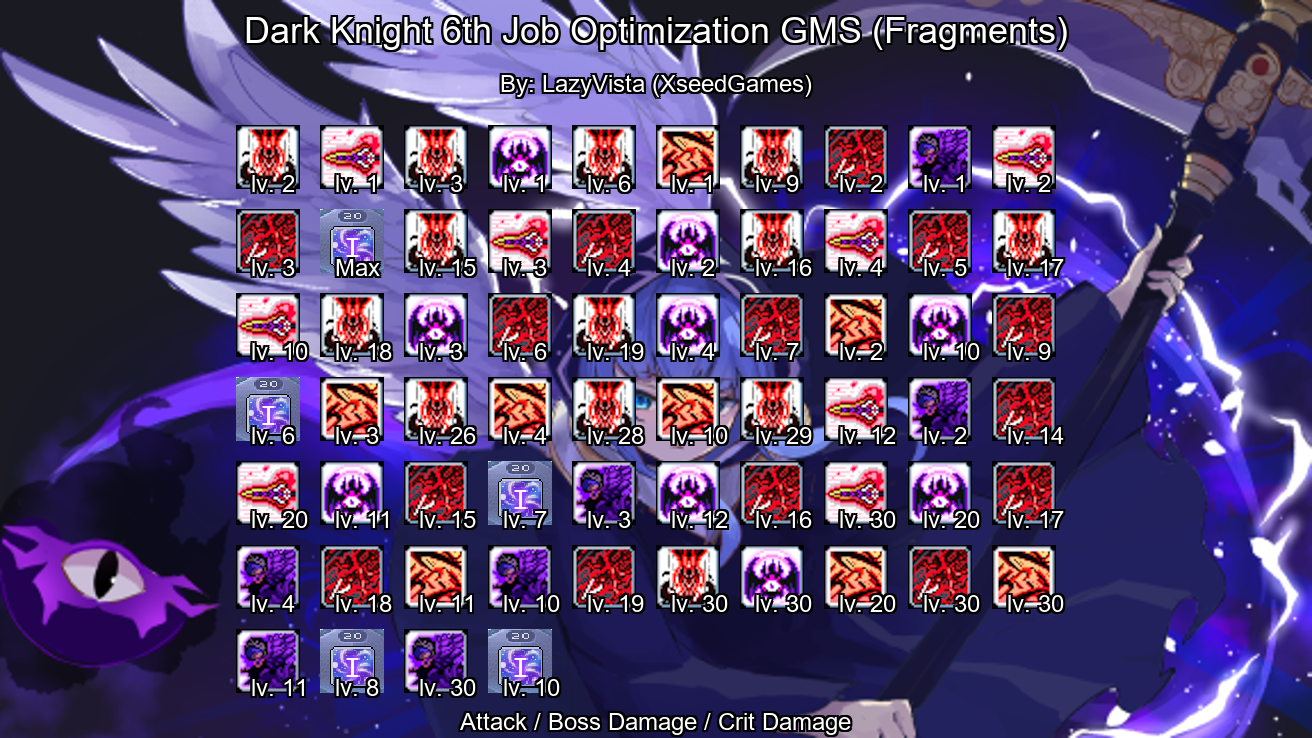
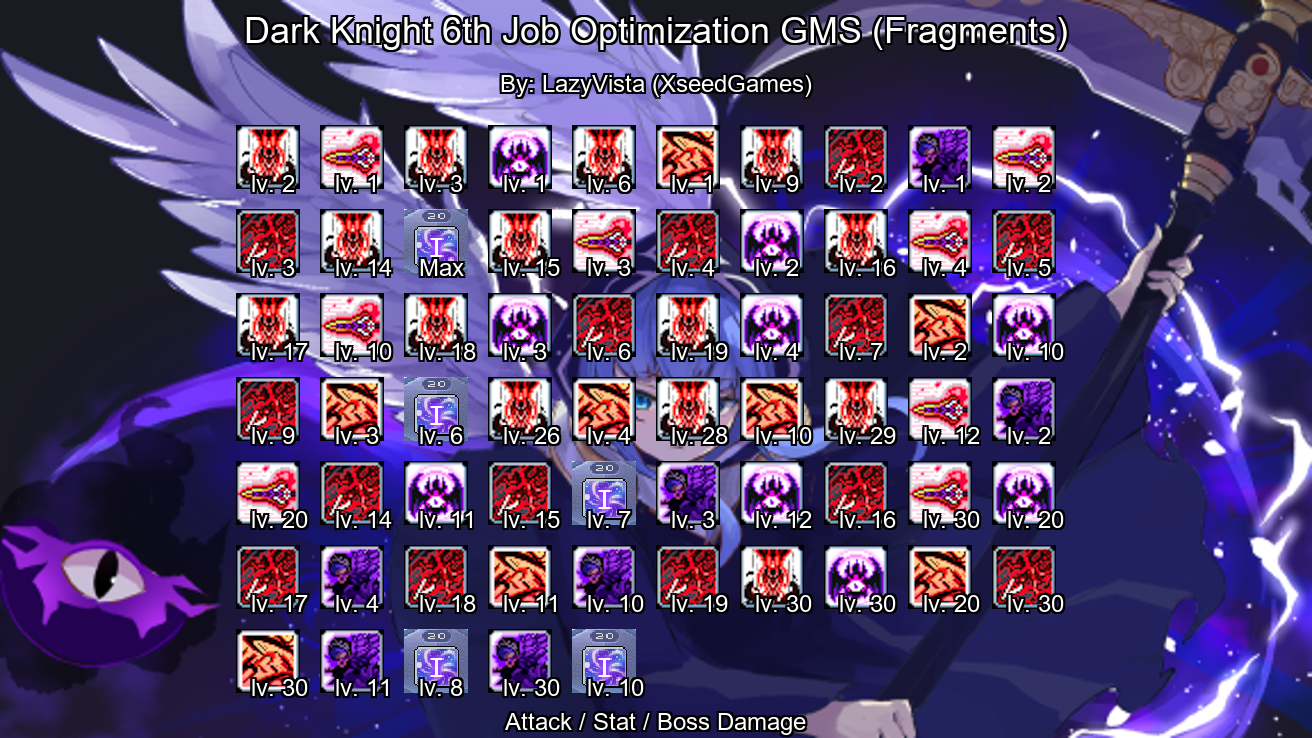
More commenting

Changed region(s): [[0.1562, 0.2805, 0.8125, 1.0]]

diff --git a/Auto_Infographic_Optimize/Hexa_Skill_Optimize.py b/Auto_Infographic_Optimize/Hexa_Skill_Optimize.py
@@ -4,21 +4,22 @@ import numpy
 ## VERY IMPORTANT TO FILL BOXES (DAMAGE, IED, BOSS_DEF, A_1 ..... C_1_Current)
 ## VERY IMPORTANT TO FILL BOXES (DAMAGE, IED, BOSS_DEF, A_1 ..... C_1_Current)
 ## VERY IMPORTANT TO FILL BOXES (DAMAGE, IED, BOSS_DEF, A_1 ..... C_1_Current)
-# Damage is Boss% + Damage%,
-# IED is what you see on character sheet
-# if you dont know what Boss_Def is this calc is way too advanced for you
 # Use decimal values 98% = 0.98, 612% = 6.12, etc etc
 # Fragment based optimization FragBase = True
 # Energy based optimization FragBase = False
 FragBase    = True
 Hexa_Stat_Include = True
-Damage      = 6.00
-IED         = 0.96
+Damage      = 7.00
+IED         = 0.97
 Hidden_IED  = 0.4
 Boss_Def    = 3.80
 
+# Damage is Boss% + Damage%,
+# IED is what you see on character sheet
+# Hidden IED is IED that doesnt show up on your character page, explorer link, built into skills, debuffs, etc etc
+# if you dont know what Boss_Def is this calc is way too advanced for you
 # These stats (Crit_Dmg, Att_Power, Att_Perc, Stat) are only used if Hexa_Stat_Include is True
-Crit_Dmg  = 1.18
+Crit_Dmg  = 1.48
 Att_Power = 8434
 Att_Perc  = 1.45
 Stat      = 75027
